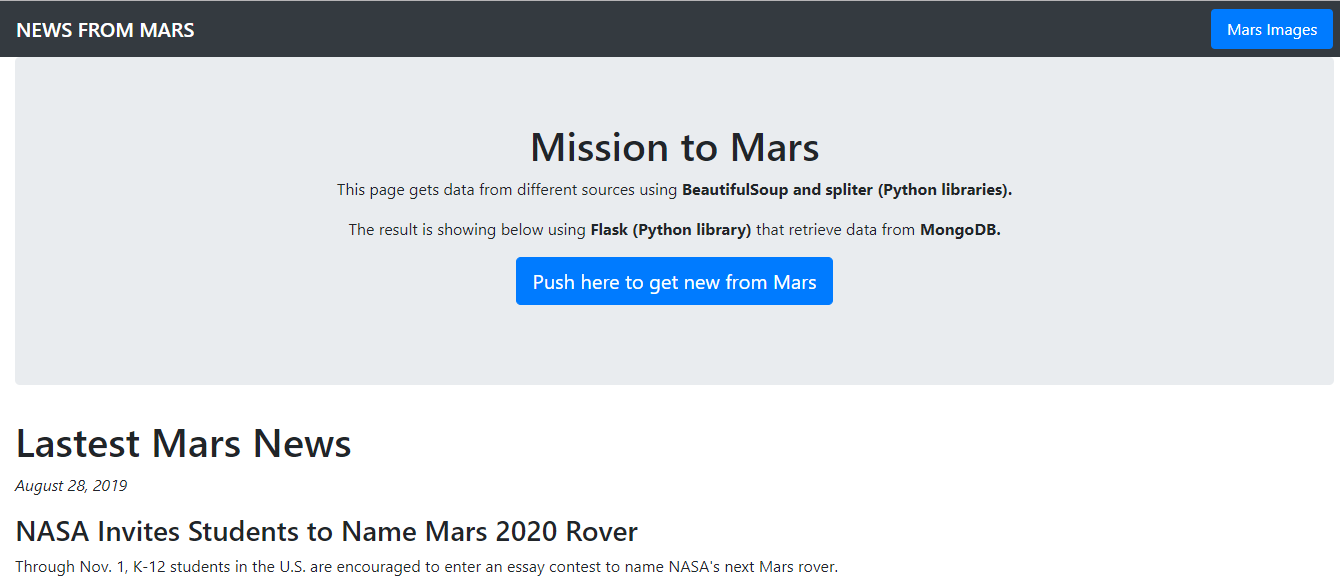
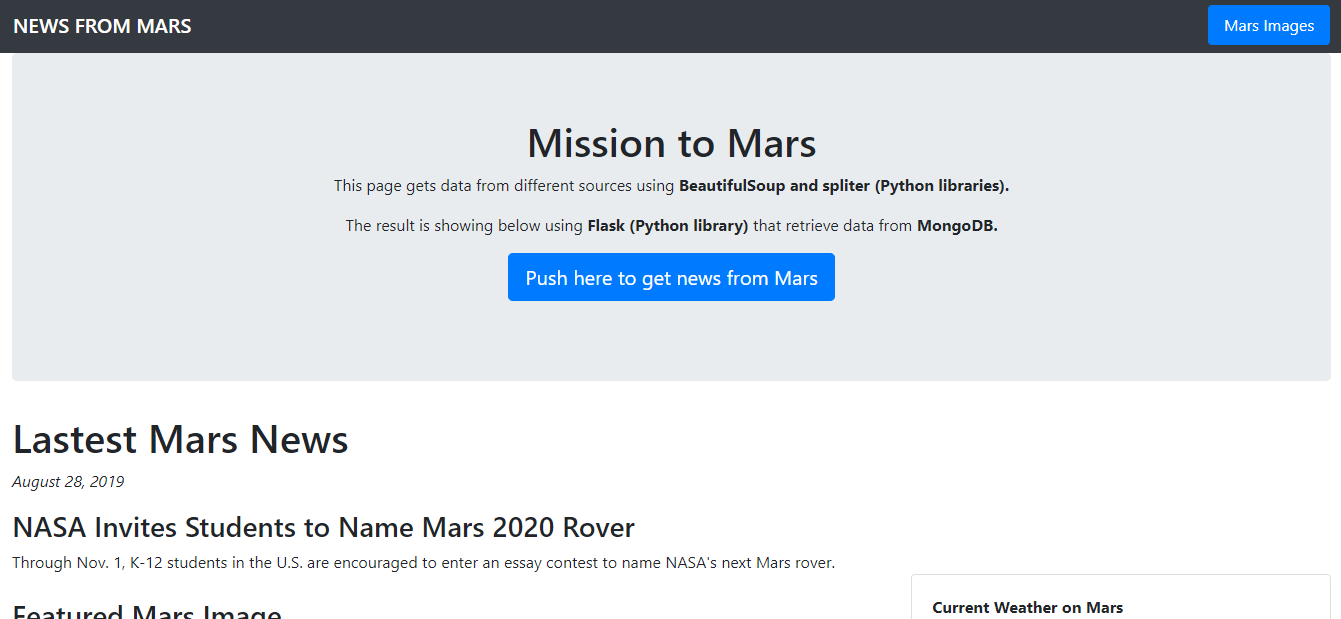
including documentation

diff --git a/README.md b/README.md
@@ -1,1 +1,63 @@
-# MongoDB_WebScraping
+# Project: News of Mars
+This project has the goal to scrape data from web pages using python libraries, for instance, splinter and beautifulsoup. At the end of the process, the data will be saved in non-sql database (MongoDB) and dynamically displayed onto HTLM webpage using Flask and Bootstrap.
+
+## Getting start:
+To run this code is necessary to have some library installed in your machine:
+** Mongodb: **
+https://www.mongodb.com/download-center/community
+** Anaconda: **
+https://www.anaconda.com/distribution/
+
+** Libraries: **
+```
+pip install beautifulsoup4
+pip install html5lib
+pip install splinter
+python -m pip install pymongo
+pip install pandas
+pip install flask
+```
+
+Then, you have to start MongoDB services and execute app.py:
+Command to start mongodb service:
+mongod 
+Execute the program:
+python app.py
+
+## Scraping pages (extracting data) from:
+https://mars.nasa.gov/news/
+https://www.jpl.nasa.gov/spaceimages/?search=&category=Mars
+https://twitter.com/marswxreport?lang=en
+https://space-facts.com/mars/
+https://astropedia.astrogeology.usgs.gov/download
+
+## Web Page shows the result:
+The scrape program will execute after push the button “Push here to news from Mars”
+ 
+
+ 
+
+
+ 
+
+Data retrieved in MongoDB:
+ 
+
+## Coding:
+Jupyter notebook: this program has all the functionalities to scrape the data from different webpages, however, it doesn’t include retrieve data into mongoDB and doesn’t show onto Webpage.
+
+Python code: There are two python code:
+1 app.py is the main program to rote the pages,  save it into mongodb, and call the functions inside the scrape_mars.py
+2. scrape_mars.py is the program that has many functions created to scrape the webpages using Beatifulsoup and splinter libraries.
+
+## Feature:
+MondoDB
+Python with:
+	flask
+	PyMongo
+splinter
+BeautifulSoup
+pandas
+
+Html and CSS with Bootstrap 4
+
